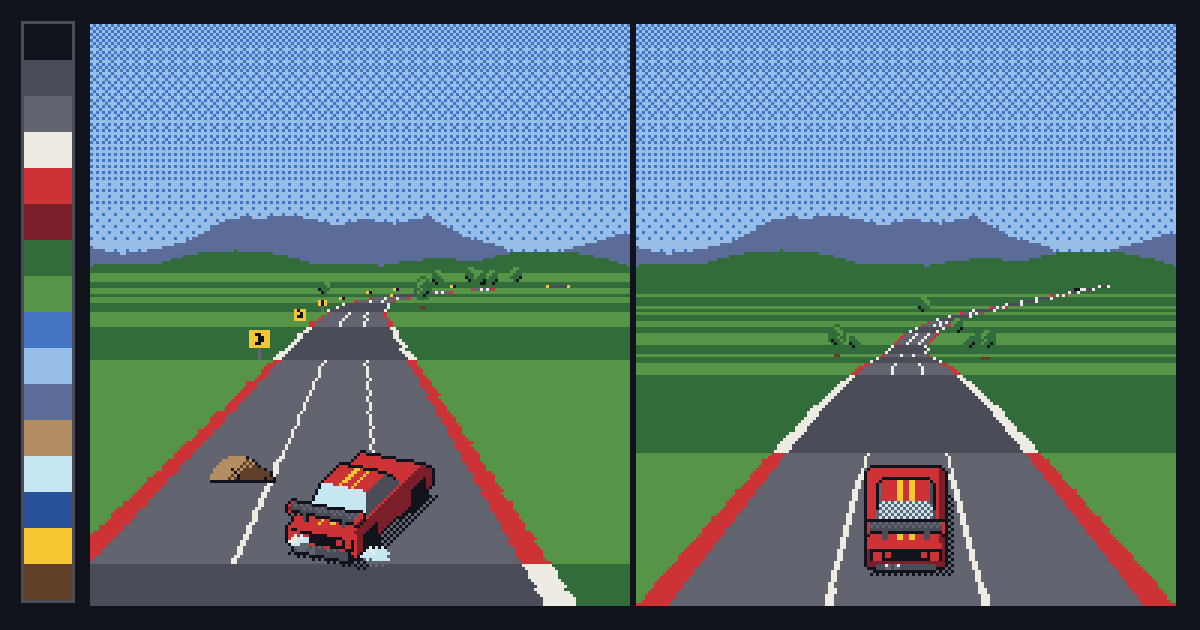
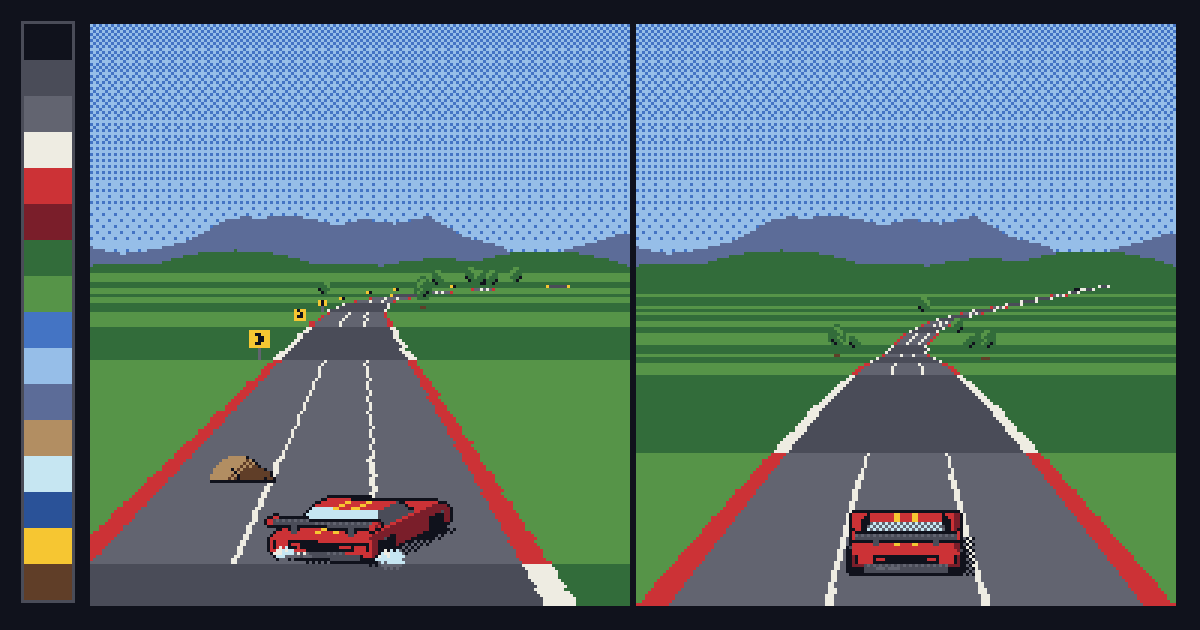
Player car and traffic from a low chase angle
Review: the first cut drew the player's car from 0.45 rad, so it read as
a tall van seen from above (36x39 px) and hid road. It is now drawn from
12 degrees at 20 px/m, the model lowered (x0.75) and the picture squashed
(x0.72): about 43x19 px with its shadow, the tail filling it under a thin
band of roof. Lean and drift turn less. Spin frames keep the higher,
smaller view so side-on the car is not half the road wide. Traffic and
the ghost cap their pitch at the same angle, so near cars show their
tails, not their roofs. Goldens, site images and NOTES updated; raster
cost unchanged.

Claude-Session: https://claude.ai/code/session_01Q6RTwv6JKTJokLqpD8xMa5

Changed region(s): [[0.2158, 0.7238, 0.4008, 0.9048], [0.6783, 0.7238, 0.8325, 0.9349]]

diff --git a/crates/racer-godot/src/sprites/car.rs b/crates/racer-godot/src/sprites/car.rs
@@ -33,17 +33,27 @@ const TRIM: &[u8] = &[INK, INK, ASPHALT_DK, ASPHALT_DK, ASPHALT_LT];
 const GHOST_BODY: &[u8] = &[ICE, ICE, ICE, WHITE];
 const GHOST_GLASS: &[u8] = &[WATER];
 
-/// Pixels per metre the player's car is drawn at: about what the
-/// projection gives a car this far in front of the camera.
-pub const PLAYER_SCALE: f64 = 14.0;
-/// Camera pitch the player's car is drawn at, radians. Gentler than the
-/// camera's true angle down at the car (about 58°), so it shows its tail
-/// as well as its roof: the classic arcade cheat.
-pub const PLAYER_PITCH: f64 = 0.45;
+/// Pixels per metre the player's car is drawn at: a little more than the
+/// projection gives a car this far in front of the camera, so it sits
+/// wide on the road.
+pub const PLAYER_SCALE: f64 = 20.0;
+/// Camera pitch the player's car is drawn at, radians (12°): a low chase
+/// camera, far gentler than the road camera's true angle down at the car
+/// (about 58°), so the tail fills the sprite and the roof is a thin band:
+/// the classic arcade cheat.
+pub const PLAYER_PITCH: f64 = 0.21;
+/// Vertical squash of the player's car (and its ghost): wide and low.
+pub const PLAYER_SQUASH: f64 = 0.72;
+/// The spin's turns are seen from higher and smaller, so a car side-on
+/// is not half the road wide.
+const SPIN_PITCH: f64 = 0.45;
+const SPIN_SCALE: f64 = 14.0;
+/// Every height on the model is scaled by this: a low, stylised body.
+const LOW: f64 = 0.75;
 
 /// Turns of the body, radians, for the lean and drift poses.
-const LEAN: [f64; 2] = [0.10, 0.20];
-const DRIFT: f64 = 0.42;
+const LEAN: [f64; 2] = [0.07, 0.14];
+const DRIFT: f64 = 0.3;
 /// Rotation frames in a spin.
 pub const SPIN_FRAMES: usize = 8;
 
@@ -242,6 +252,11 @@ fn model(lit: bool, ghost: bool) -> Model {
         let (a, b) = (s * (HW - 0.04), s * (HW + 0.02));
         m.cuboid((a.min(b), a.max(b)), (-HL, -HL + 0.34), (1.06, 1.24), plate);
     }
+    for f in &mut m.faces {
+        for p in &mut f.pts {
+            p.h *= LOW;
+        }
+    }
     // The shadow: the footprint, nudged right and back, away from the light.
     m.shadow = vec![
         (-HW + 0.05, -HL - 0.15),
@@ -254,14 +269,26 @@ fn model(lit: bool, ghost: bool) -> Model {
 
 /// The rear tyres' outer contact points and the pipes' mouths, metres.
 const TYRES: [V3; 2] = [v3(-HW + 0.1, -1.45, 0.0), v3(HW - 0.1, -1.45, 0.0)];
-const PIPES: [V3; 2] = [v3(-0.42, -HL - 0.16, 0.22), v3(-0.2, -HL - 0.16, 0.22)];
+const PIPES: [V3; 2] = [
+    v3(-0.42, -HL - 0.16, 0.22 * LOW),
+    v3(-0.2, -HL - 0.16, 0.22 * LOW),
+];
 
 /// Draw one pose of the player's car.
 fn pose(f: CarFrame) -> CarSprite {
-    let v = View {
-        yaw: f.yaw(),
-        pitch: PLAYER_PITCH,
-        scale: PLAYER_SCALE,
+    let v = match f {
+        CarFrame::Spin(_) => View {
+            yaw: f.yaw(),
+            pitch: SPIN_PITCH,
+            scale: SPIN_SCALE,
+            squash: 1.0,
+        },
+        _ => View {
+            yaw: f.yaw(),
+            pitch: PLAYER_PITCH,
+            scale: PLAYER_SCALE,
+            squash: PLAYER_SQUASH,
+        },
     };
     let style = Style {
         outline: true,
@@ -340,6 +367,7 @@ pub fn ghost(scale: f64, pitch: f64) -> Sprite {
         yaw: 0.0,
         pitch,
         scale,
+        squash: PLAYER_SQUASH,
     };
     let style = Style {
         outline: true,
@@ -517,7 +545,20 @@ mod tests {
             }
         }
         let straight = art.get(CarFrame::Straight);
-        assert!(straight.body.w <= 40 && straight.body.h <= 40);
+        // Wide and low: the painted box, shadow and all, about 2:1.
+        let s = &straight.body;
+        let painted = |x: i32, y: i32| s.at(x, y) != Sprite::CLEAR;
+        let xs: Vec<i32> = (0..s.w)
+            .filter(|&x| (0..s.h).any(|y| painted(x, y)))
+            .collect();
+        let ys: Vec<i32> = (0..s.h)
+            .filter(|&y| (0..s.w).any(|x| painted(x, y)))
+            .collect();
+        let (w, h) = (xs[xs.len() - 1] - xs[0] + 1, ys[ys.len() - 1] - ys[0] + 1);
+        assert!(
+            (36..=44).contains(&w) && h <= 24 && w * 10 >= h * 17,
+            "{w}x{h}"
+        );
         assert!(straight.body.px.contains(&RED), "the car is red");
         assert!(straight.braking.px.contains(&WHITE), "lit lamps");
     }

diff --git a/crates/racer-godot/src/sprites/solid.rs b/crates/racer-godot/src/sprites/solid.rs
@@ -157,6 +157,9 @@ pub struct View {
     pub pitch: f64,
     /// Pixels per metre.
     pub scale: f64,
+    /// Vertical squash of the picture, 1 for none: a stylised low,
+    /// wide car is drawn at less than 1.
+    pub squash: f64,
 }
 
 /// Where the light comes from, in view space (`x` right, `y` away from
@@ -177,7 +180,7 @@ impl View {
         let (sp, cp) = self.pitch.sin_cos();
         (
             q.x * self.scale,
-            -(q.h * cp + q.y * sp) * self.scale,
+            -(q.h * cp + q.y * sp) * self.scale * self.squash,
             q.y * cp - q.h * sp,
         )
     }
@@ -460,6 +463,7 @@ mod tests {
             yaw: 0.0,
             pitch: 0.5,
             scale: 8.0,
+            squash: 1.0,
         };
         let r = render(&cube(), &v, Style::default());
         let s = &r.sprite;
@@ -486,6 +490,7 @@ mod tests {
                 yaw: 0.0,
                 pitch: 0.4,
                 scale: 8.0,
+                squash: 1.0,
             },
             Style::default(),
         );
@@ -495,6 +500,7 @@ mod tests {
                 yaw: 0.6,
                 pitch: 0.4,
                 scale: 8.0,
+                squash: 1.0,
             },
             Style::default(),
         );
@@ -506,6 +512,7 @@ mod tests {
                 yaw: 0.6,
                 pitch: 0.4,
                 scale: 8.0,
+                squash: 1.0,
             },
             Style::default(),
         );
@@ -526,6 +533,7 @@ mod tests {
             yaw: 0.3,
             pitch: 0.4,
             scale: 6.0,
+            squash: 1.0,
         };
         let r = render(&cube(), &v, Style::default());
         let c = crop_centred(&r);

diff --git a/crates/racer-godot/src/render.rs b/crates/racer-godot/src/render.rs
@@ -1209,7 +1209,9 @@ pub(crate) mod tests {
         let ghost_px = |c: &Canvas| {
             (0..c.h)
                 .flat_map(|y| (0..c.w).map(move |x| (x, y)))
-                .filter(|&(x, y)| c.get(x, y) == rgba(ICE) && none.get(x, y) != rgba(ICE))
+                .filter(|&(x, y)| {
+                    [rgba(ICE), rgba(WHITE)].contains(&c.get(x, y)) && none.get(x, y) != c.get(x, y)
+                })
                 .count()
         };
         let mut ahead = plain;
@@ -1228,7 +1230,8 @@ pub(crate) mod tests {
         let at = v.place(52.0, 1.5).unwrap();
         assert!(at.x > l.road.w / 2 && at.y < v.car_row());
         assert!((at.y - 12..at.y).any(|y| (at.x - 8..at.x + 8)
-            .any(|x| c.get(x, y) == rgba(ICE) && none.get(x, y) != rgba(ICE))));
+            .any(|x| [rgba(ICE), rgba(WHITE)].contains(&c.get(x, y))
+                && none.get(x, y) != c.get(x, y))));
         // Behind the camera (5 m back) it has no place on screen at all.
         let mut behind = plain;
         behind.ghost = Some((40.0 - 8.0, 0.0));

diff --git a/crates/racer-godot/src/sprites/mod.rs b/crates/racer-godot/src/sprites/mod.rs
@@ -93,13 +93,13 @@ fn sample(w: i32, h: i32, shape: &impl Fn(f64, f64, i32, i32) -> u8) -> Sprite {
 
 /// The camera's angle down at something `scale` pixels a metre away,
 /// radians: steep close to the camera, nearly level far off. Pre-drawn
-/// cars at a scale step are drawn from this angle, so a far car shows its
-/// tail and a near one its roof. Capped where the roof would hide the
-/// tail.
+/// cars at a scale step are drawn from this angle, capped at the player's
+/// low chase angle ([`car::PLAYER_PITCH`]): every car shows mostly its
+/// tail under a thin band of roof, never a top-down view.
 pub fn pitch_at(scale: f64) -> f64 {
     let cam = crate::project::Camera::DEFAULT;
     let dz = cam.focal / scale.max(1e-3);
-    (cam.height / dz).atan().min(0.55)
+    (cam.height / dz).atan().min(car::PLAYER_PITCH)
 }
 
 /// Every sprite the game draws.

diff --git a/crates/racer-godot/src/sprites/traffic.rs b/crates/racer-godot/src/sprites/traffic.rs
@@ -197,6 +197,7 @@ pub fn steps(kind: Kind, livery: Livery) -> Steps {
                 yaw: 0.0,
                 pitch: pitch_at(scale),
                 scale,
+                squash: 1.0,
             };
             let style = Style {
                 outline: scale >= 6.0,

diff --git a/NOTES.md b/NOTES.md
@@ -500,10 +500,17 @@ drawn in code at startup, nothing is scaled or rotated at draw time.
   z-buffer, pixel centres sampled; lit from the upper left onto short
   palette ramps with a checkerboard between steps; an ink outline, ink
   creases where one part stands in front of another, an ink-checkerboard
-  ground shadow. The player's car is drawn at 14 px/m from 0.45 rad
-  (gentler than the camera's ~58° at the car, so its tail shows); traffic
-  and the ghost at each scale step from `pitch_at(scale)`, the camera's
-  true angle at that depth capped at 0.55 rad. Traffic's three smallest
+  ground shadow. The player's car is a low chase view: 20 px/m from
+  0.21 rad (12°, far gentler than the road camera's ~58° at the car),
+  heights ×0.75 and the picture squashed ×0.72, so it is wide and low
+  (about 43×19 px with its shadow) and its tail fills it; the spin's turns
+  are drawn smaller (14 px/m) from 0.45 rad so side-on it is not half the
+  road wide. Lean turns the body 0.07/0.14 rad, a drift 0.3. Traffic and
+  the ghost are drawn at each scale step from `pitch_at(scale)`, the
+  camera's true angle at that depth capped at the same 0.21 rad, so every
+  car shows its tail under a thin band of roof. A first cut drew the
+  player from 0.45 rad: it read as a tall van seen from above and hid
+  road. Traffic's three smallest
   steps (2, 3, 5 px wide) are hand-drawn maps per kind: a renderer's
   sampling loses the tail lamps at that size.
 - **Frames**: 15 poses (straight, lean 1/2 each way, drift L/R, 8 spin
@@ -515,13 +522,13 @@ drawn in code at startup, nothing is scaled or rotated at draw time.
   dark parts and a white outline solid; past ~15 m (scale under 3 px/m) a
   7×5 marker floats over it, only while some of it shows over the road.
   Owner feedback was that it went faint past ~15 m; check on the Pixel.
-- **Cost**, this machine (release): `Art::new` 7.4 ms once at startup
-  (`art_build_cost`; 60 ms in a debug build, so tests share one
-  `Art::shared`), 138,523 bytes of sprites. `raster_bench` before → after
-  (µs per 180×360 frame): MEADOW 232 → 228–236, COAST 223 → 221–223,
-  ALPINE 245 → 241–266 (noisy), DESERT 83 → 84, NIGHT 105 → 105. The larger
-  player car first cost ~15 µs a frame; `Canvas::blit` now clips columns
-  once and writes rows directly, which won it back.
+- **Cost**, this machine (release): `Art::new` 6.5 ms once at startup
+  (`art_build_cost`; ~60 ms in a debug build, so tests share one
+  `Art::shared`), 123,765 bytes of sprites. `raster_bench` before → after
+  (µs per 180×360 frame): MEADOW 232 → 229, COAST 223 → 223, ALPINE 245 →
+  244, DESERT 83 → 83, NIGHT 105 → 105. `Canvas::blit` now clips columns
+  once and writes rows directly (the first, bigger car cost ~15 µs a frame
+  through per-pixel `put`).
 - **Golden frames.** Every render golden moved (`sweep_mid_curve`,
   `hairpin_entry`, `crest_climbing`, `crest_over`, `hazards`,
   `drift_corner_signed`, `ghost_ahead`, `biome_coast`, `biome_alpine`,

diff --git a/design/DESIGN.md b/design/DESIGN.md
@@ -277,12 +277,13 @@ Decided, not built:
   pose and scale step: flat faces lit from the upper left on short
   palette ramps, a checkerboard between steps (dithering only, no
   blends), an ink outline and an ink-checkerboard ground shadow. The
-  player's car (an original red hatch-coupe) has straight, two lean steps
+  player's car (an original red hatch-coupe, seen from a low chase angle,
+  wide and low) has straight, two lean steps
   each way, drift left/right and eight spin frames, each with brake lamps
   off and lit; tyre smoke and the boost flame are separate small sprites
   at points each frame records. Traffic is three kinds (hatchback, box
   van, pickup) in blue, yellow and white, drawn per step from the angle
-  the camera sees that depth at; the three smallest steps are hand-drawn
+  the camera sees that depth at, capped at the player's low angle; the three smallest steps are hand-drawn
   pixel maps. Cars use only the fixed indices. Roadside things are
   shapes in metres sampled per step, edged on the shadow side once a step
   can carry it. The ghost is the player's car, pale, its body
